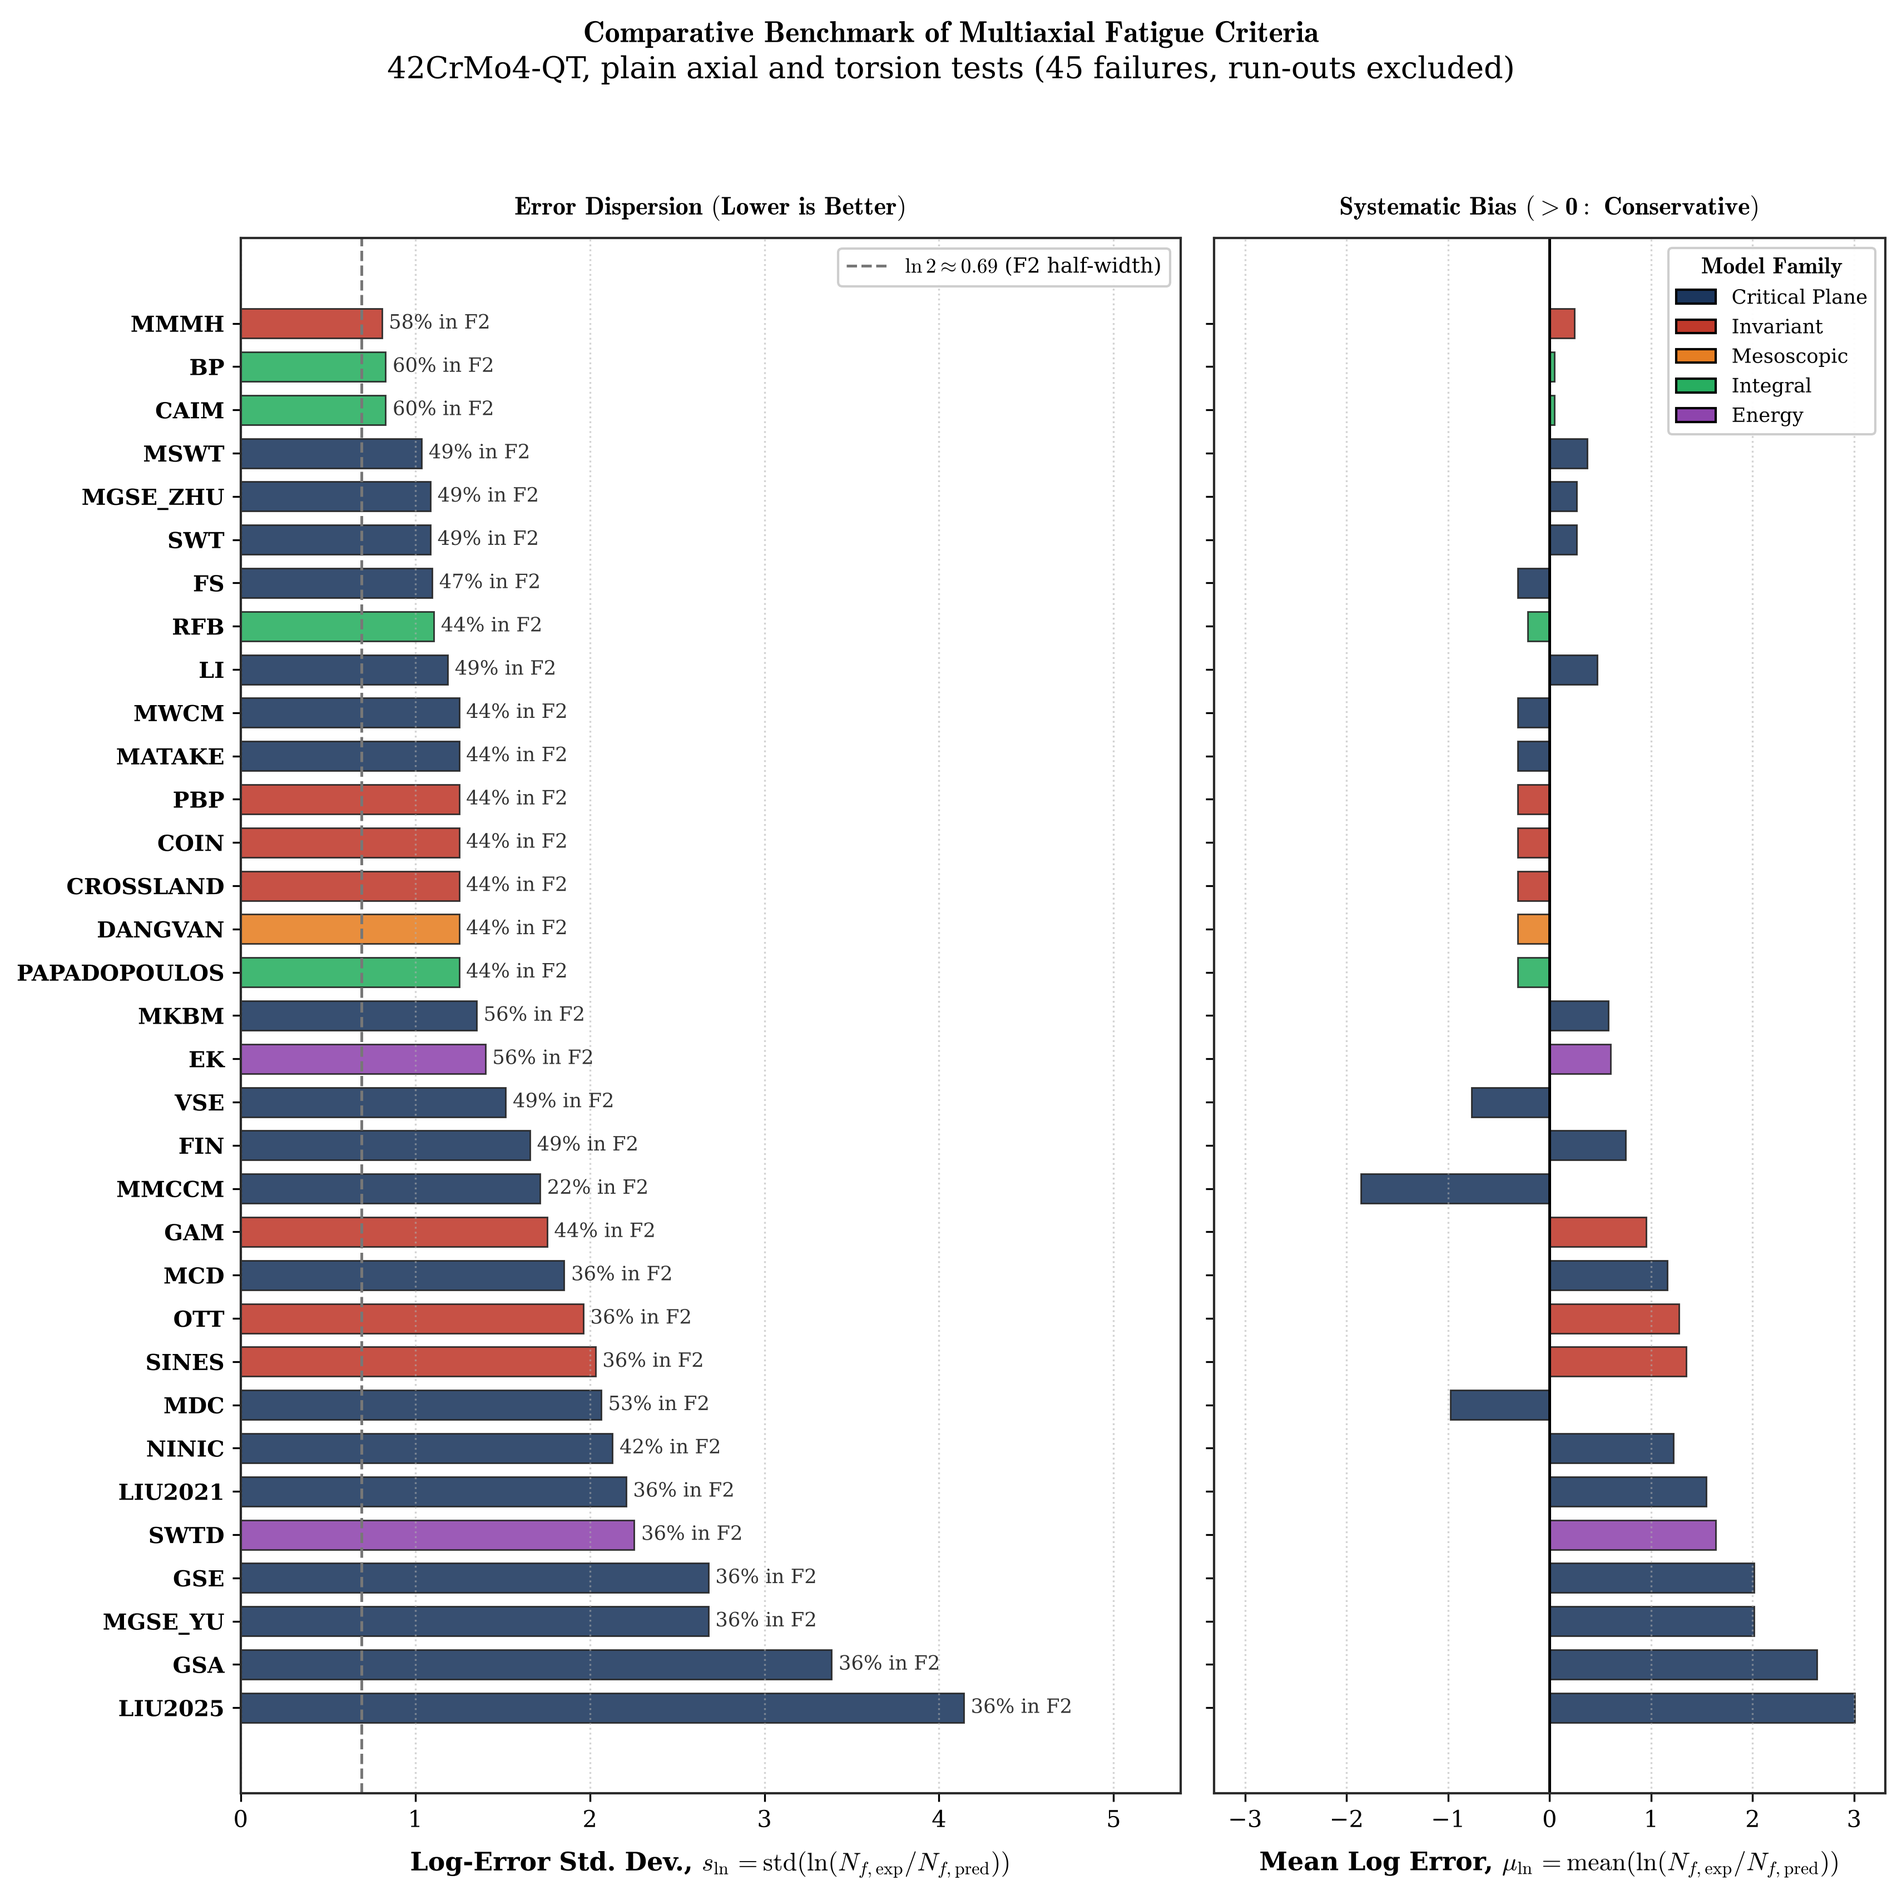
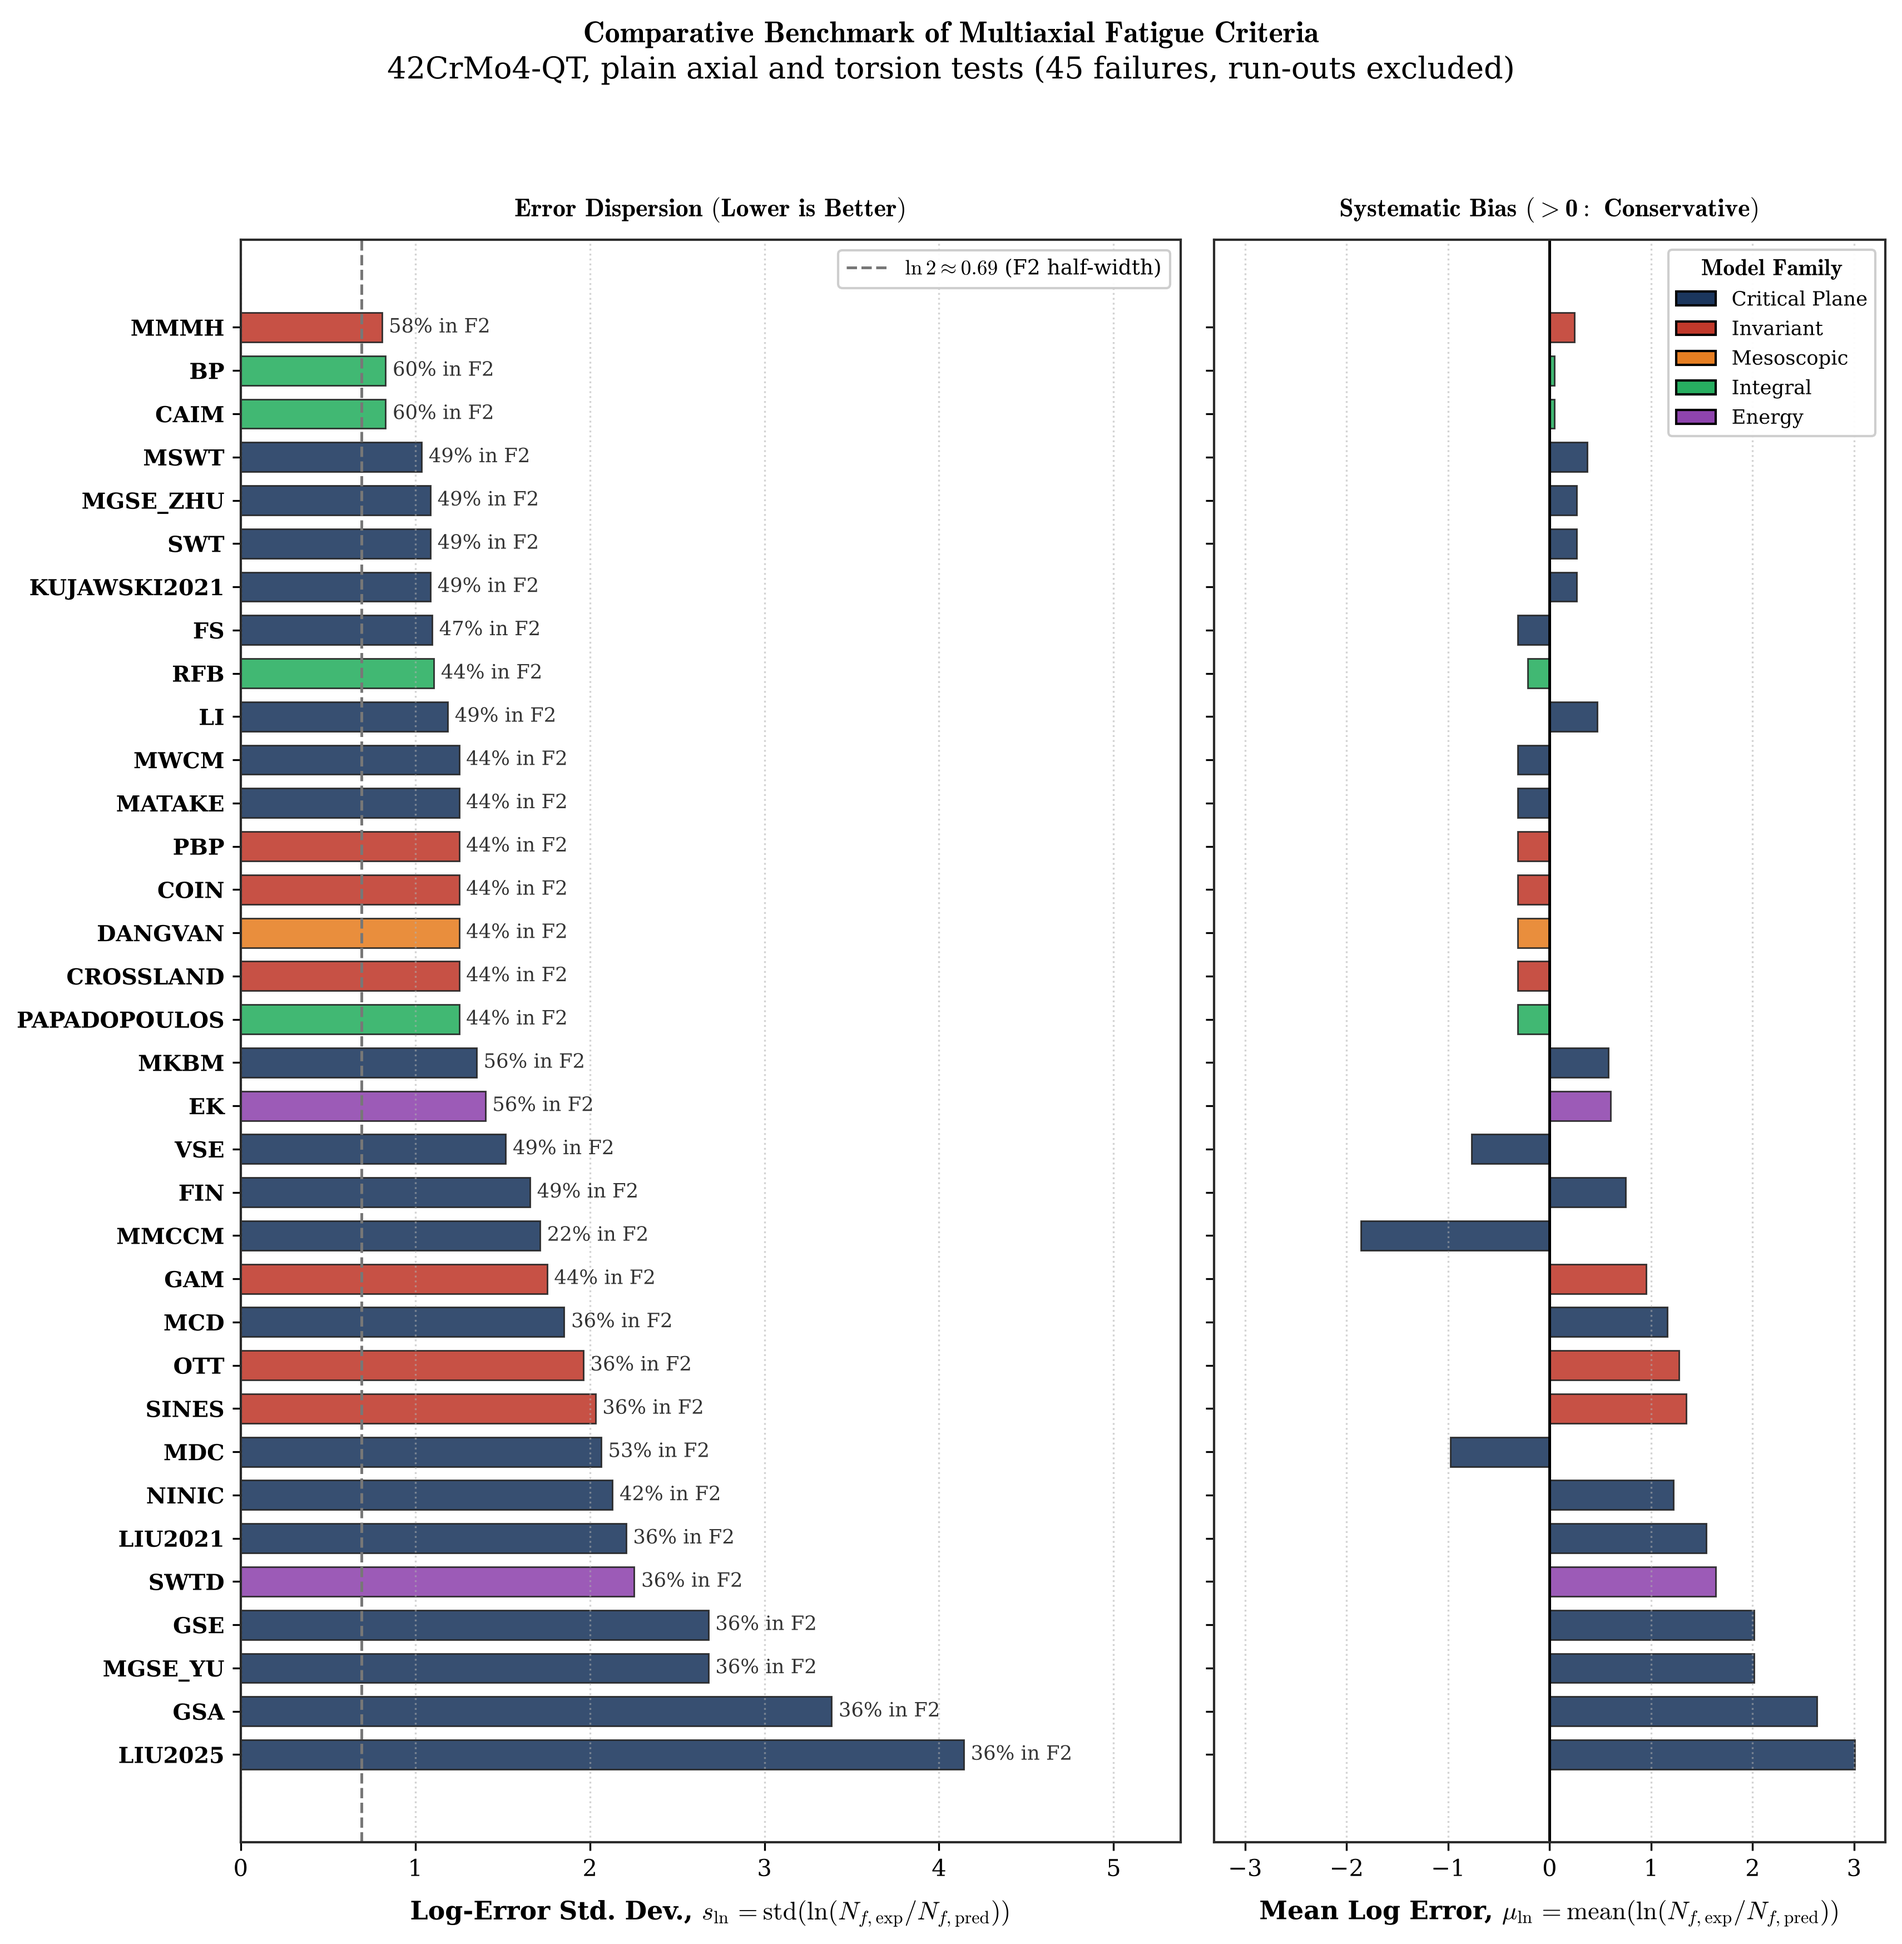
KUJAWSKI2021: homepage figures; note that no supplied workbook has a compressive normal mean
Claude-Session: https://claude.ai/code/session_01KzHgFiC4WA789boM7p2Bhj

diff --git a/docs/method-guides/KUJAWSKI2021.md b/docs/method-guides/KUJAWSKI2021.md
@@ -151,6 +151,9 @@ $\sqrt{110\cdot 200} = 148.3$ MPa for SWT. The compression–compression cycle
 uv run multifat-pipeline --material Al7075_T6 --models KUJAWSKI2021 --all-variants --results-dir Results/current/guides
 ```
 
+None of the supplied workbooks has a compressive normal mean on the critical plane, so on all of
+them `KUJAWSKI2021` gives exactly the `SWT` damage parameters and lives.
+
 ## Comparison capabilities and outputs
 
 - **Life:** master curve on $W_D$ (`Nf_expected`).
